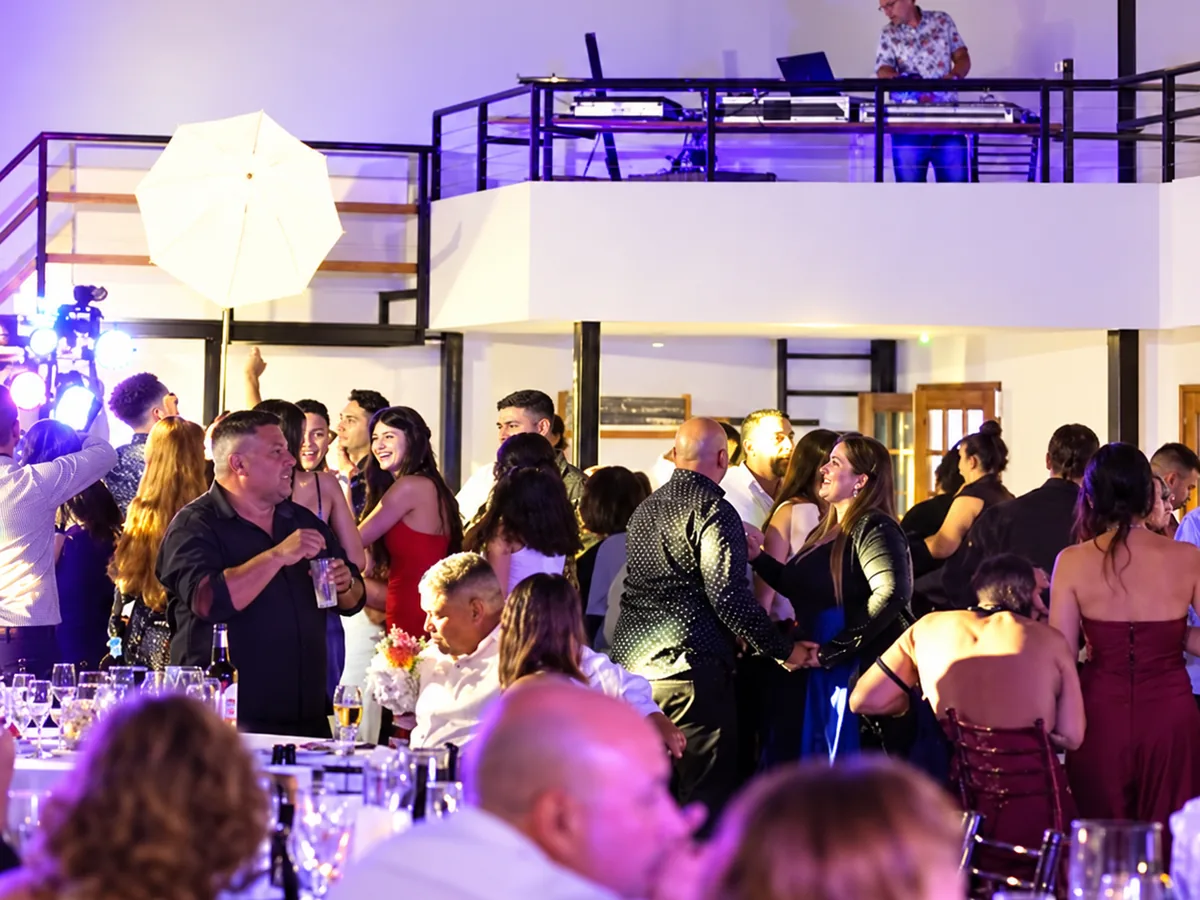
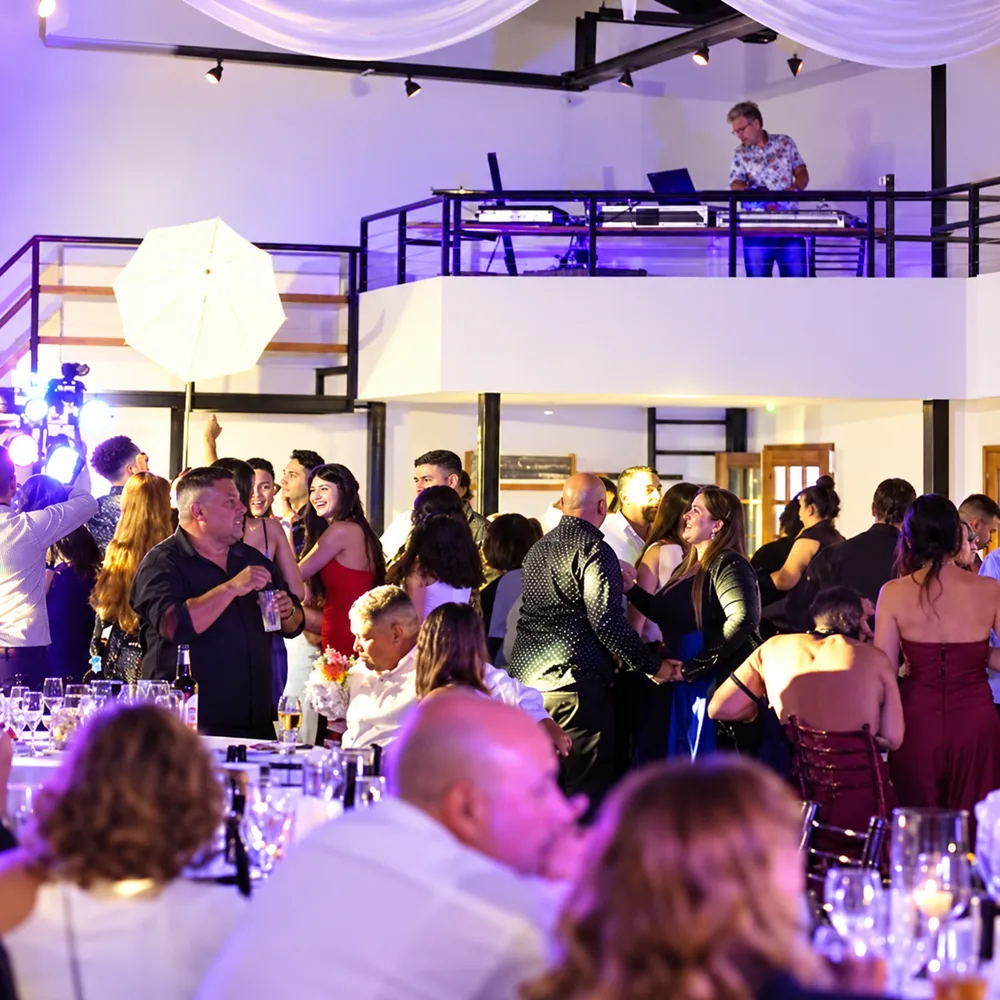
Kit-demo final pass: 1:1 photos, replace Aylen predio photo, WA fab

diff --git a/complejo-aylen-kit-demo/styles.css b/complejo-aylen-kit-demo/styles.css
@@ -58,7 +58,7 @@ h2{font-size:clamp(2.75rem,12vw,6.5rem);line-height:.92;letter-spacing:-.01em}
 .hero-texto p{margin-bottom:1.25rem;font-size:1.125rem;max-width:44ch}
 .tel{display:block;width:max-content;padding:.75rem 0;font-weight:600}
 .hero-foto{position:relative;margin-left:8vw;background:var(--plata)}
-.hero-foto img{width:100%;aspect-ratio:4/3;object-fit:cover;object-position:50% 45%}
+.hero-foto img{width:100%;aspect-ratio:1/1;object-fit:cover;object-position:50% 45%}
 .hero-dato{position:relative;display:flex;flex-wrap:wrap;justify-content:space-between;gap:.1rem 1.25rem;width:calc(100% - 8vw);margin-top:-1.5rem;padding:.65rem .9rem .65rem var(--borde);background:var(--negro);color:#fff;font:600 1.1875rem/1.2 var(--display);text-transform:uppercase;letter-spacing:.02em}
 .hero-dato b{font-weight:600;color:var(--rojo-luz)}
 
@@ -67,7 +67,7 @@ h2{font-size:clamp(2.75rem,12vw,6.5rem);line-height:.92;letter-spacing:-.01em}
 .seis{display:grid;grid-template-columns:repeat(6,minmax(0,1fr));gap:.4rem;max-width:21rem;margin-top:1.25rem}
 .seis i{display:block;aspect-ratio:2/3;border:2px solid var(--rojo);background:linear-gradient(var(--rojo),var(--rojo)) center/100% 2px no-repeat}
 .predio-foto{width:68%;margin-top:2rem;margin-left:auto;margin-right:calc(var(--borde)*-1)}
-.predio-foto img{width:100%}
+.predio-foto img{width:100%;aspect-ratio:1/1;object-fit:cover;object-position:50% 42%}
 .lista{border-top:3px solid var(--negro)}
 .lista li{padding:1.1rem 0 1.2rem;border-bottom:1px solid var(--plata)}
 .lista h3{font:800 italic clamp(1.75rem,6.4vw,2.75rem)/1 var(--display);text-transform:uppercase}
@@ -75,7 +75,7 @@ h2{font-size:clamp(2.75rem,12vw,6.5rem);line-height:.92;letter-spacing:-.01em}
 .lista a{color:var(--negro);font-weight:600}
 .salud{display:grid;gap:.85rem}
 .salud .foto-34{margin:0;max-width:18rem}
-.salud .foto-34 img,.foto-34 img{width:100%;aspect-ratio:4/3;object-fit:cover;object-position:50% 50%}
+.salud .foto-34 img,.foto-34 img{width:100%;aspect-ratio:1/1;object-fit:cover;object-position:50% 50%}
 .sin-dato h3{color:var(--rojo)}
 
 /* Torneo: la placa del complejo convertida en tablero real */
@@ -86,7 +86,7 @@ h2{font-size:clamp(2.75rem,12vw,6.5rem);line-height:.92;letter-spacing:-.01em}
 .torneo-rotulo{font:600 1.25rem/1.2 var(--display);text-transform:uppercase;letter-spacing:.02em;color:var(--rojo-luz);margin-bottom:.6rem}
 .torneo h2{font-size:clamp(4rem,19vw,10rem);line-height:.86}
 .torneo .torneo-foto{padding:0;margin:2rem 12vw 0 0}
-.torneo-foto img{width:100%;aspect-ratio:4/3;object-fit:cover;object-position:50% 45%}
+.torneo-foto img{width:100%;aspect-ratio:1/1;object-fit:cover;object-position:50% 45%}
 .torneo-info{margin-top:1.75rem}
 .torneo-info>p:first-child{font-size:1.125rem;max-width:42ch;margin-bottom:1.25rem}
 .nota{margin-top:1.25rem;max-width:46ch;font-size:.9375rem;color:#c4c6c2}
@@ -113,21 +113,19 @@ h2{font-size:clamp(2.75rem,12vw,6.5rem);line-height:.92;letter-spacing:-.01em}
 .horas tr.hoy th,.horas tr.hoy td{color:var(--rojo)}
 .mapa{width:calc(100% + var(--borde)*2);max-width:none;height:320px;margin-inline:calc(var(--borde)*-1);border:0;background:var(--plata)}
 
-.pie{display:grid;grid-template-columns:minmax(0,1fr);gap:1.75rem;padding:2.5rem var(--borde) 6rem;background:var(--negro);color:#d6d8d4;font-size:.9375rem}
+.pie{display:grid;grid-template-columns:minmax(0,1fr);gap:1.75rem;padding:2.5rem var(--borde) 3.5rem;background:var(--negro);color:#d6d8d4;font-size:.9375rem}
 .pie p+p{margin-top:.5rem}
 .pie a{color:#fff}
 .pie-nombre{font:800 italic 1.875rem/1 var(--display);text-transform:uppercase;color:#fff;margin-bottom:.5rem}
 .pie-demo{max-width:60ch;padding-top:1.25rem;border-top:1px solid #3a3c3a;font-size:.875rem}
 .pie-demo strong{color:#fff}
 
-/* Barra de WhatsApp en celular; el body reserva su altura para no tapar el pie */
-.wa-fijo{position:fixed;inset:auto 0 0;z-index:15;display:flex;align-items:center;justify-content:center;min-height:3.25rem;padding:.5rem 1rem calc(.5rem + env(safe-area-inset-bottom));background:var(--rojo);color:#fff;font:600 1.25rem/1.1 var(--display);text-transform:uppercase;letter-spacing:.02em;text-decoration:none}
-.wa-fijo:focus-visible{outline-color:#fff;outline-offset:-5px}
-/* Mientras se ve el CTA del hero no hace falta repetirlo */
-.wa-fijo.oculta{visibility:hidden;opacity:0;transform:translateY(100%)}
+/* Botón flotante de WhatsApp (siempre visible, mobile y desktop) */
+.fab{position:fixed;z-index:40;right:calc(12px + env(safe-area-inset-right,0px));bottom:calc(12px + env(safe-area-inset-bottom,0px));width:54px;height:54px;border-radius:50%;display:grid;place-items:center;background:#25D366;color:#fff;box-shadow:0 4px 14px rgba(0,0,0,.28);text-decoration:none}
+.fab:focus-visible{outline:3px solid #fff;outline-offset:3px}
+.fab svg{display:block}
 
 @media(min-width:960px){
-  .wa-fijo{display:none}
   .top{flex-wrap:nowrap}
   .top nav{gap:2rem;margin-left:0}
 
@@ -136,7 +134,7 @@ h2{font-size:clamp(2.75rem,12vw,6.5rem);line-height:.92;letter-spacing:-.01em}
   .tel{display:inline-block;margin-left:1rem}
   .hero-texto{grid-column:1/7;grid-row:2;padding-top:2rem;padding-right:1rem;align-self:start}
   .hero-foto{grid-column:8/-1;grid-row:1/4;margin:0}
-  .hero-foto img{height:100%;aspect-ratio:4/3;object-fit:cover;object-position:50% 40%}
+  .hero-foto img{height:100%;aspect-ratio:1/1;object-fit:cover;object-position:50% 40%}
   .hero-dato{grid-column:1/8;grid-row:3;width:auto;margin:0;padding-block:.85rem;font-size:1.375rem}
 
   .predio{grid-template-columns:repeat(12,minmax(0,1fr));column-gap:1.5rem;align-items:start}
@@ -150,7 +148,7 @@ h2{font-size:clamp(2.75rem,12vw,6.5rem);line-height:.92;letter-spacing:-.01em}
   .torneo-rotulo{grid-column:1/-1;padding-left:var(--borde)}
   .torneo h2{grid-column:1/-1;padding-left:var(--borde);font-size:clamp(6rem,11.4vw,14rem);white-space:nowrap}
   .torneo .torneo-foto{grid-column:1/7;grid-row:3/5;align-self:stretch;margin:2.5rem 0 0}
-  .torneo-foto img{height:auto;aspect-ratio:4/3;object-fit:cover;object-position:50% 45%}
+  .torneo-foto img{height:auto;aspect-ratio:1/1;object-fit:cover;object-position:50% 45%}
   .torneo-info{grid-column:8/-1;grid-row:3;margin-top:2.5rem;padding-right:var(--borde)}
   .tablero{grid-column:8/-1;grid-row:4;margin-top:2.5rem;padding-right:var(--borde)}
 
@@ -180,7 +178,6 @@ h2{font-size:clamp(2.75rem,12vw,6.5rem);line-height:.92;letter-spacing:-.01em}
 
   .cta{transition:background-color .15s ease-out,transform .15s ease-out}
   .cta:active{transform:scale(.98)}
-  .wa-fijo{transition:transform .25s var(--curva),opacity .25s ease-out,visibility .25s}
 
   /* Una sola entrada al hacer scroll por bloque: las canchas y el tablero */
   .js [data-entrada] i,.js [data-entrada] tbody tr{opacity:0;transform:translateY(.75rem);transition:opacity .45s ease-out,transform .45s var(--curva)}

diff --git a/el-origen-eventos-kit-demo/index.html b/el-origen-eventos-kit-demo/index.html
@@ -41,7 +41,7 @@
 <main id="contenido">
   <section class="portada" aria-labelledby="titulo">
     <picture class="portada__foto">
-      <img src="img/foto-hero.webp" width="1200" height="900" fetchpriority="high" alt="Entrada de El Origen Eventos de noche, iluminada.">
+      <img src="img/foto-hero.webp" width="1000" height="1000" fetchpriority="high" alt="Entrada de El Origen Eventos de noche, iluminada.">
     </picture>
     <div class="portada__texto">
       <h1 id="titulo"><span class="nombre">El Origen</span> <span class="rubro">Salón de eventos en Sourigues</span></h1>
@@ -88,7 +88,7 @@
             <h3>La llegada</h3>
             <p>Estacionamiento interno con personal y una entrada techada que abre directo al salón.</p>
           </div>
-          <figure class="paso__foto rv"><img src="img/foto-llegada.webp" width="1200" height="900" loading="lazy" alt="Entrada de El Origen Eventos."></figure>
+          <figure class="paso__foto rv"><img src="img/foto-llegada.webp" width="1000" height="1000" loading="lazy" alt="Entrada de El Origen Eventos."></figure>
         </li>
         <li class="paso">
             <span class="paso__num" aria-hidden="true">2</span>
@@ -96,7 +96,7 @@
             <h3>La recepción</h3>
             <p>Un patio de recepción para recibir a todos antes de pasar a las mesas.</p>
           </div>
-          <figure class="paso__foto paso__foto--chica rv"><img src="img/foto-recepcion.webp" width="1200" height="900" loading="lazy" alt="Ambientación en la recepción de El Origen."></figure>
+          <figure class="paso__foto paso__foto--chica rv"><img src="img/foto-recepcion.webp" width="1000" height="1000" loading="lazy" alt="Ambientación en la recepción de El Origen."></figure>
         </li>
         <li class="paso">
             <span class="paso__num" aria-hidden="true">3</span>
@@ -105,8 +105,8 @@
             <p>El alquiler incluye salón, mesas, sillas y mozos.</p>
           </div>
           <div class="paso__fotos rv">
-            <figure class="paso__foto"><img src="img/foto-salon.webp" width="1200" height="900" loading="lazy" alt="Salón de El Origen armado para una fiesta."></figure>
-            <figure class="paso__foto paso__foto--chica"><img src="img/foto-mesa.webp" width="994" height="746" loading="lazy" alt="Detalle de mesa armada en El Origen."></figure>
+            <figure class="paso__foto"><img src="img/foto-salon.webp" width="1000" height="1000" loading="lazy" alt="Salón de El Origen armado para una fiesta."></figure>
+            <figure class="paso__foto paso__foto--chica"><img src="img/foto-mesa.webp" width="1000" height="1000" loading="lazy" alt="Detalle de mesa armada en El Origen."></figure>
             
           </div>
         </li>
@@ -116,7 +116,7 @@
             <h3>La pista</h3>
             <p>Barra de tragos, cabina de DJ y aire acondicionado para que nadie se quiera ir.</p>
           </div>
-          <figure class="paso__foto paso__foto--chica rv"><img src="img/foto-pista.webp" width="1200" height="900" loading="lazy" alt="Pista y ambiente de fiesta en El Origen."></figure>
+          <figure class="paso__foto paso__foto--chica rv"><img src="img/foto-pista.webp" width="1000" height="1000" loading="lazy" alt="Pista y ambiente de fiesta en El Origen."></figure>
         </li>
       </ol>
       <p class="mas-fotos"><a href="https://www.instagram.com/elorigen_eventos/" target="_blank" rel="noopener">Ver más en Instagram @elorigen_eventos</a></p>
@@ -234,7 +234,8 @@ Invitados: A definir</output>
 
 <div class="barra" id="barra">
   <a class="btn btn--oro" href="#consulta">Consultar fecha</a>
-  <a class="btn btn--linea" href="https://wa.me/5491158299106?text=%C2%A1Hola%21%20Quiero%20consultar%20por%20un%20evento%20en%20El%20Origen." target="_blank" rel="noopener">WhatsApp</a>
 </div>
+
+<a class="fab" href="https://wa.me/5491158299106?text=%C2%A1Hola%21%20Quiero%20consultar%20por%20un%20evento%20en%20El%20Origen." target="_blank" rel="noopener" aria-label="Escribinos por WhatsApp"><svg aria-hidden="true" viewBox="0 0 24 24" width="28" height="28"><path fill="currentColor" d="M12.04 2C6.58 2 2.13 6.45 2.13 11.91c0 1.75.46 3.45 1.32 4.95L2.05 22l5.25-1.38a9.9 9.9 0 0 0 4.74 1.21c5.46 0 9.91-4.45 9.91-9.91S17.5 2 12.04 2Zm0 18.15c-1.48 0-2.93-.4-4.2-1.15l-.3-.18-3.12.82.83-3.04-.2-.31a8.2 8.2 0 0 1-1.26-4.38c0-4.54 3.7-8.24 8.25-8.24 4.54 0 8.24 3.7 8.24 8.24 0 4.55-3.7 8.24-8.24 8.24Zm4.52-6.16c-.25-.12-1.47-.72-1.69-.81-.23-.08-.39-.12-.56.13-.17.24-.64.8-.78.97-.14.16-.29.18-.54.06-.25-.12-1.05-.39-1.99-1.23-.74-.66-1.23-1.47-1.38-1.72-.14-.25-.02-.38.11-.5.11-.11.25-.29.37-.43.13-.15.17-.25.25-.42.08-.17.04-.31-.02-.43-.06-.13-.56-1.34-.76-1.84-.2-.48-.41-.42-.56-.43h-.48c-.17 0-.43.06-.66.31-.22.25-.86.85-.86 2.07 0 1.22.89 2.4 1.01 2.56.12.17 1.75 2.67 4.23 3.74.59.26 1.05.41 1.41.52.59.19 1.13.16 1.56.1.48-.07 1.47-.6 1.67-1.18.21-.58.21-1.07.15-1.18-.06-.1-.23-.16-.48-.28Z"/></svg></a>
 </body>
 </html>

diff --git a/complejo-aylen-kit-demo/index.html b/complejo-aylen-kit-demo/index.html
@@ -47,7 +47,7 @@
     <a class="tel" href="tel:+541161837849">o llamá al 11 6183-7849</a>
   </div>
   <figure class="hero-foto">
-    <img src="img/foto-hero.webp" width="1200" height="900" fetchpriority="high" alt="Dos jugadores disputan la pelota en una cancha de césped del Complejo Aylen durante un torneo.">
+    <img src="img/foto-hero.webp" width="1000" height="1000" fetchpriority="high" alt="Dos jugadores disputan la pelota en una cancha de césped del Complejo Aylen durante un torneo.">
   </figure>
   <p class="hero-dato"><span data-estado>Sáb 12 a 21 · Dom 8 a 21</span><span>Cno. Gral. Belgrano 3877</span></p>
 </section>
@@ -57,7 +57,7 @@
     <h2 id="t-predio">Qué hay en el predio</h2>
     <div class="seis" aria-hidden="true" data-entrada><i></i><i></i><i></i><i></i><i></i><i></i></div>
     <figure class="predio-foto">
-      <img src="img/foto-jugador.webp" width="1200" height="900" loading="lazy" alt="Jugador de camiseta negra con el número 27 a punto de pegarle a la pelota, con arboleda de fondo.">
+      <img src="img/foto-jugador.webp" width="1000" height="1000" loading="lazy" alt="Vista de las canchas de césped del Complejo Aylen.">
     </figure>
   </div>
   <ul class="lista">
@@ -65,7 +65,7 @@
     <li><h3>Vestuarios y baños</h3><p>“6 canchas muy buenas con confitería, vestuario y baños”, dice una reseña en Google de julio de 2025.</p></li>
     <li><h3>Buffet</h3></li>
     <li class="salud"><h3>La salud primero</h3><p>El complejo cuenta con servicio médico. La ambulancia se estaciona al costado de la cancha.</p>
-      <figure class="foto-34"><img src="img/foto-ambulancia.webp" width="930" height="698" loading="lazy" alt="Ambulancia estacionada al costado de una cancha del complejo."></figure></li>
+      <figure class="foto-34"><img src="img/foto-ambulancia.webp" width="1000" height="1000" loading="lazy" alt="Ambulancia estacionada al costado de una cancha del complejo."></figure></li>
     <li><h3>Fotos y filmaciones</h3><p>Las “fotitos del domingo” salen en <a href="https://www.facebook.com/complejodeportivoaylen/" target="_blank" rel="noopener noreferrer">Facebook</a> e <a href="https://www.instagram.com/complejodeportivoaylen/" target="_blank" rel="noopener noreferrer">Instagram</a>.</p></li>
     <li class="sin-dato"><h3>¿Alquiler y valores?</h3><p>No están publicados. <a href="https://wa.me/5491161837849?text=%C2%A1Hola%21%20Quer%C3%ADa%20consultar%20si%20se%20puede%20alquilar%20una%20cancha%20y%20cu%C3%A1nto%20sale." target="_blank" rel="noopener noreferrer">Preguntá por WhatsApp<span class="sr"> (abre en otra pestaña)</span></a> si se puede y cuánto sale.</p></li>
   </ul>
@@ -76,7 +76,7 @@
   <p class="torneo-rotulo">Torneos por edades · Fútbol 11</p>
   <h2 id="t-torneo">No te quedes afuera</h2>
   <figure class="torneo-foto">
-    <img src="img/foto-torneo.webp" width="1200" height="900" loading="lazy" alt="Jugador del torneo de fútbol en una cancha del Complejo Aylen.">
+    <img src="img/foto-torneo.webp" width="1000" height="1000" loading="lazy" alt="Jugador del torneo de fútbol en una cancha del Complejo Aylen.">
   </figure>
   <div class="torneo-info">
     <p>Las jornadas se juegan los sábados por la tarde y los domingos por la mañana. Consultá por WhatsApp los torneos disponibles, las edades y los valores de inscripción.</p>
@@ -116,7 +116,7 @@
   </div>
 </footer>
 
-<a class="wa-fijo" data-wa-fijo href="https://wa.me/5491161837849?text=%C2%A1Hola%21%20Quer%C3%ADa%20consultar%20por%20las%20canchas%20del%20Complejo%20Aylen." target="_blank" rel="noopener noreferrer">WhatsApp<span class="sr"> (abre en otra pestaña)</span></a>
+<a class="fab" href="https://wa.me/5491161837849?text=%C2%A1Hola%21%20Quer%C3%ADa%20consultar%20por%20las%20canchas%20del%20Complejo%20Aylen." target="_blank" rel="noopener noreferrer" aria-label="Escribinos por WhatsApp"><svg aria-hidden="true" viewBox="0 0 24 24" width="28" height="28"><path fill="currentColor" d="M12.04 2C6.58 2 2.13 6.45 2.13 11.91c0 1.75.46 3.45 1.32 4.95L2.05 22l5.25-1.38a9.9 9.9 0 0 0 4.74 1.21c5.46 0 9.91-4.45 9.91-9.91S17.5 2 12.04 2Zm0 18.15c-1.48 0-2.93-.4-4.2-1.15l-.3-.18-3.12.82.83-3.04-.2-.31a8.2 8.2 0 0 1-1.26-4.38c0-4.54 3.7-8.24 8.25-8.24 4.54 0 8.24 3.7 8.24 8.24 0 4.55-3.7 8.24-8.24 8.24Zm4.52-6.16c-.25-.12-1.47-.72-1.69-.81-.23-.08-.39-.12-.56.13-.17.24-.64.8-.78.97-.14.16-.29.18-.54.06-.25-.12-1.05-.39-1.99-1.23-.74-.66-1.23-1.47-1.38-1.72-.14-.25-.02-.38.11-.5.11-.11.25-.29.37-.43.13-.15.17-.25.25-.42.08-.17.04-.31-.02-.43-.06-.13-.56-1.34-.76-1.84-.2-.48-.41-.42-.56-.43h-.48c-.17 0-.43.06-.66.31-.22.25-.86.85-.86 2.07 0 1.22.89 2.4 1.01 2.56.12.17 1.75 2.67 4.23 3.74.59.26 1.05.41 1.41.52.59.19 1.13.16 1.56.1.48-.07 1.47-.6 1.67-1.18.21-.58.21-1.07.15-1.18-.06-.1-.23-.16-.48-.28Z"/></svg></a>
 
 <script src="main.js" defer></script>
 </body>

diff --git a/el-origen-eventos-kit-demo/styles.css b/el-origen-eventos-kit-demo/styles.css
@@ -52,7 +52,7 @@ p{margin:0}
 /* Portada */
 .portada{position:relative;overflow:hidden}
 .portada__foto{display:block;position:relative}
-.portada__foto img{width:100%;aspect-ratio:4/3;object-fit:cover;object-position:50% 45%}
+.portada__foto img{width:100%;aspect-ratio:1/1;object-fit:cover;object-position:50% 45%}
 .portada__foto::after{content:"";position:absolute;inset:0;background:linear-gradient(to bottom,transparent 52%,var(--noche) 98%)}
 .portada__texto{position:relative;z-index:1;margin-top:-5.5rem;padding:0 1.25rem 2.75rem}
 h1{margin:0;font-weight:inherit}
@@ -87,7 +87,7 @@ h1{margin:0;font-weight:inherit}
 .paso__foto{margin:0;overflow:hidden;border-radius:2px}
 .paso__foto img{width:100%;object-fit:cover}
 .paso__foto--chica{max-width:18rem}
-.paso__foto img,.paso__foto--chica img{aspect-ratio:4/3;object-fit:cover;object-position:50% 45%}
+.paso__foto img,.paso__foto--chica img{aspect-ratio:1/1;object-fit:cover;object-position:50% 45%}
 .paso__fotos{display:grid;gap:.6rem;grid-template-columns:repeat(2,minmax(0,1fr))}
 .paso__fotos>:first-child{grid-column:1/-1}
 .trastienda{margin-top:3rem;padding-top:1.25rem;border-top:1px solid #3e4268;max-width:52ch;font-size:1.125rem}
@@ -166,8 +166,14 @@ h1{margin:0;font-weight:inherit}
 .pie .lema{margin-bottom:.75rem}
 .pie__demo{max-width:62ch;color:var(--niebla);font-size:.875rem}
 
+/* Botón flotante de WhatsApp (siempre visible) */
+.fab{position:fixed;z-index:50;right:calc(12px + env(safe-area-inset-right,0px));bottom:calc(12px + env(safe-area-inset-bottom,0px));width:54px;height:54px;border-radius:50%;display:grid;place-items:center;background:#25D366;color:#fff;box-shadow:0 4px 14px rgba(0,0,0,.28);text-decoration:none}
+.fab:focus-visible{outline:3px solid #fff;outline-offset:3px}
+.fab svg{display:block}
+
 /* Barra de acción en celular */
 .barra{position:fixed;inset:auto 0 0;z-index:40;display:flex;gap:.5rem;padding:.6rem .75rem calc(.6rem + env(safe-area-inset-bottom));background:var(--noche);border-top:1px solid #34385a;transition:transform .35s var(--curva),visibility .35s}
+.js .barra.visible~.fab{bottom:calc(4.25rem + env(safe-area-inset-bottom,0px))}
 .barra .btn{flex:1 1 0;min-width:0;padding-inline:.5rem}
 .js .barra:not(.visible){transform:translateY(110%);visibility:hidden}
 

diff --git a/complejo-aylen-kit-demo/main.js b/complejo-aylen-kit-demo/main.js
@@ -43,9 +43,4 @@
   }, { rootMargin: '0px 0px -10% 0px' });
   bloques.forEach(function (b) { observador.observe(b); });
 
-  // La barra de WhatsApp aparece recién cuando el CTA del hero sale de pantalla.
-  var barra = document.querySelector('[data-wa-fijo]');
-  new IntersectionObserver(function (entradas) {
-    barra.classList.toggle('oculta', entradas[0].isIntersecting);
-  }).observe(document.querySelector('.hero-texto .cta'));
 })();
